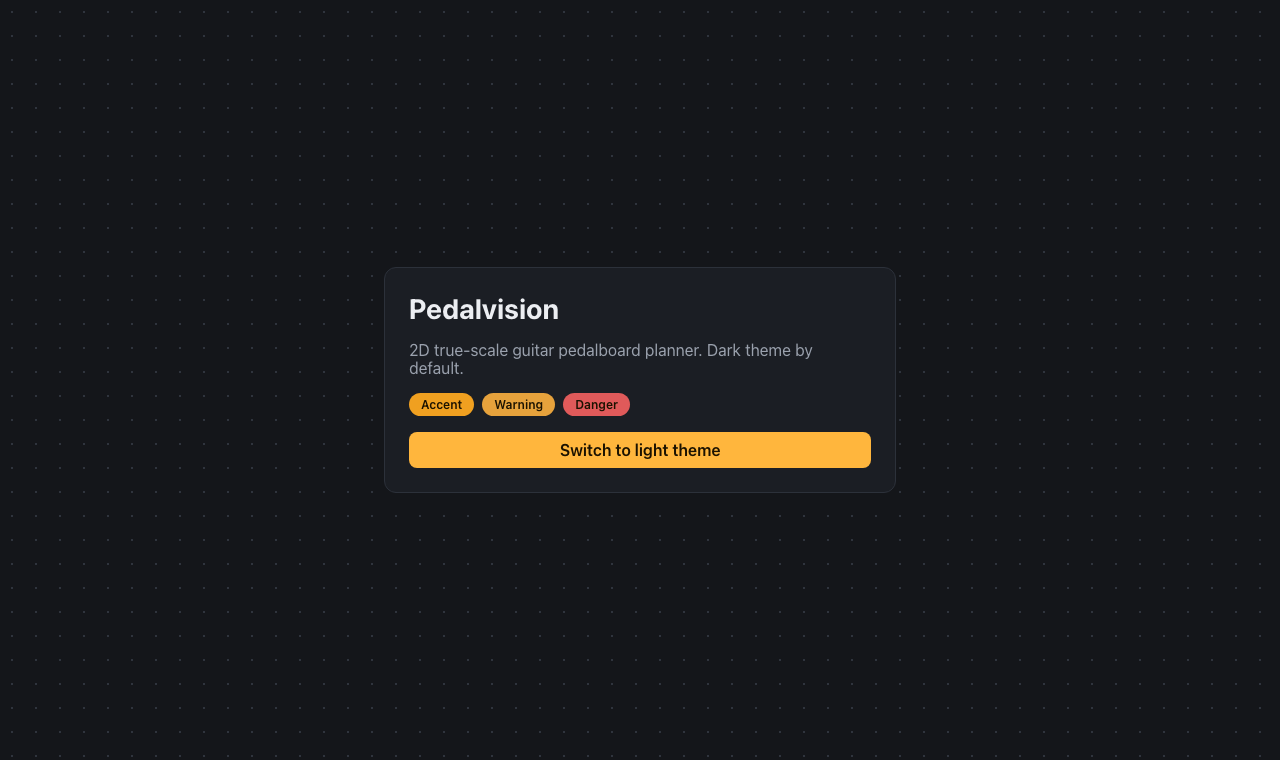
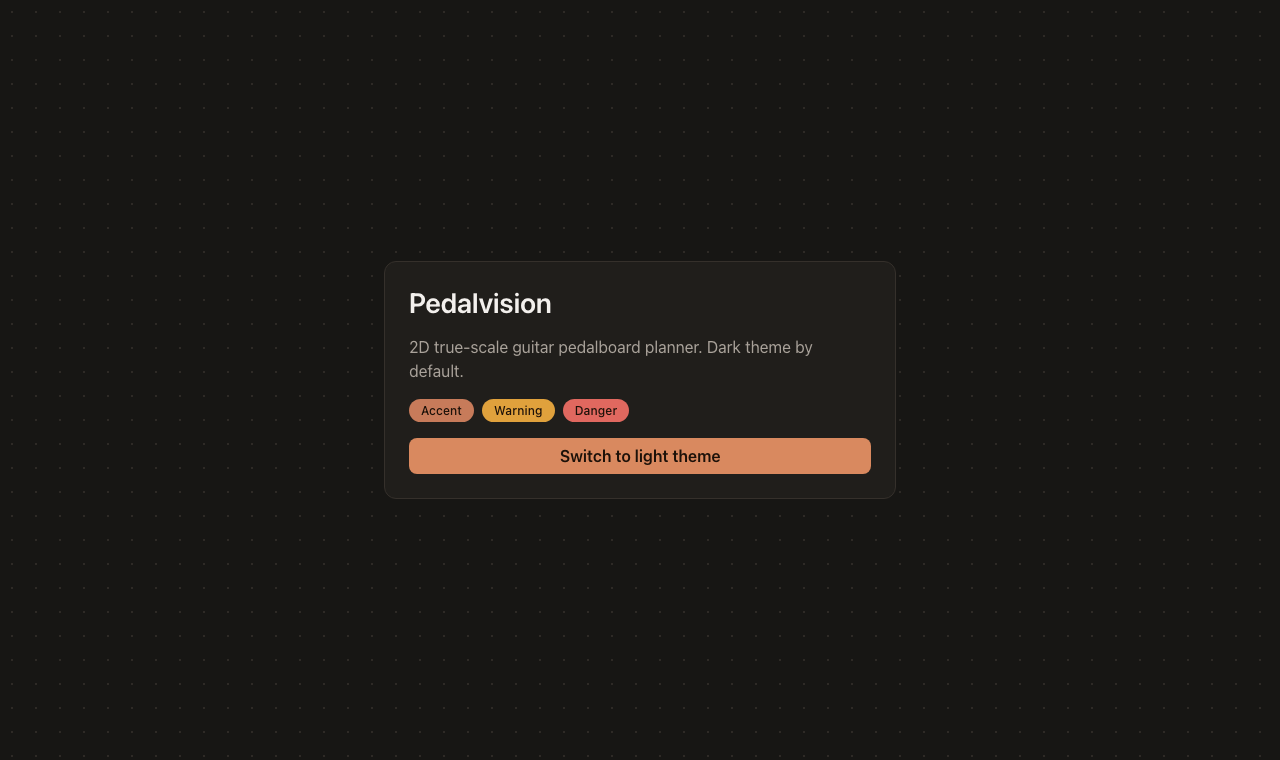
feat: P0-03 Studio Clay redesign — warm graphite + clay accent (owner-approved direction)

Changed region(s): [[0.3125, 0.4539, 0.6875, 0.6355], [0.3125, 0.3934, 0.4375, 0.4237]]

diff --git a/src/styles/tokens.css b/src/styles/tokens.css
@@ -1,30 +1,33 @@
 /*
  * Pedalvision design tokens — the single source of truth for visual values.
- * Dark is the default (:root); light is a variables-only override.
- * Konva cannot read CSS variables — keep src/styles/theme.ts in sync (tested).
+ * Direction: "Studio Clay" (owner-approved 2026-10-12, see ADR-005).
+ * Warm graphite canvas + one desaturated clay accent; depth by luminance
+ * ladder + hairline borders, never shadows/glow. Dark is the default (:root);
+ * light is a variables-only override. Konva cannot read CSS variables — keep
+ * src/styles/theme.ts in sync (tested).
  */
 
 :root {
 	color-scheme: dark;
 
 	/* Canvas */
-	--color-canvas-bg: #14161a;
-	--color-grid-dot: #2f343d;
+	--color-canvas-bg: #171614;
+	--color-grid-dot: #2e2a26;
 
 	/* Surfaces & ink */
-	--color-surface: #1b1e24;
-	--color-surface-raised: #23272f;
-	--color-border: #2c313a;
-	--color-ink: #eceef2;
-	--color-ink-muted: #9aa1ad;
+	--color-surface: #201e1b;
+	--color-surface-raised: #292521;
+	--color-border: #35302b;
+	--color-ink: #f3f0ed;
+	--color-ink-muted: #a9a29a;
 
 	/* Accent & status */
-	--color-accent: #f0a020;
-	--color-accent-strong: #ffb63d;
-	--color-on-accent: #1b1200;
-	--color-warning: #e6a23c;
-	--color-danger: #e05a5a;
-	--color-cable: #c8ccd4;
+	--color-accent: #c77b5a;
+	--color-accent-strong: #d9895f;
+	--color-on-accent: #1c1109;
+	--color-warning: #e0a13c;
+	--color-danger: #e0685f;
+	--color-cable: #d8d2cb;
 
 	/* Spacing scale (4px base) */
 	--space-1: 4px;
@@ -34,7 +37,7 @@
 	--space-5: 24px;
 	--space-6: 32px;
 
-	/* Radii */
+	/* Radii (never mix sm and lg in one component) */
 	--radius-sm: 4px;
 	--radius-md: 8px;
 	--radius-lg: 12px;
@@ -48,8 +51,14 @@
 	--font-size-md: 1rem;
 	--font-size-lg: 1.25rem;
 	--font-size-xl: 1.75rem;
+	--font-weight-normal: 400;
+	--font-weight-medium: 500;
+	--font-weight-semibold: 600;
+	--tracking-tight: -0.01em;
+	--tracking-normal: 0;
+	--tracking-wide: 0.01em;
 
-	/* Dot grid */
+	/* Dot grid — subtle infrastructure, not noise */
 	--grid-dot-size: 24px;
 	--grid-dot-radius: 1px;
 }
@@ -58,21 +67,21 @@
 	color-scheme: light;
 
 	/* Canvas */
-	--color-canvas-bg: #f5f6f8;
-	--color-grid-dot: #c8ccd4;
+	--color-canvas-bg: #f4f1ed;
+	--color-grid-dot: #d9d3ca;
 
 	/* Surfaces & ink */
-	--color-surface: #ffffff;
-	--color-surface-raised: #f0f1f4;
-	--color-border: #d7dae0;
-	--color-ink: #1b1e24;
-	--color-ink-muted: #5b6270;
+	--color-surface: #fbfaf8;
+	--color-surface-raised: #f0ece6;
+	--color-border: #e2dcd4;
+	--color-ink: #1f1c19;
+	--color-ink-muted: #6b645c;
 
 	/* Accent & status */
-	--color-accent: #b26b00;
-	--color-accent-strong: #8a5300;
+	--color-accent: #9e5230;
+	--color-accent-strong: #834327;
 	--color-on-accent: #ffffff;
-	--color-warning: #b7791f;
-	--color-danger: #c53030;
-	--color-cable: #4a4f59;
+	--color-warning: #9a6a12;
+	--color-danger: #c0453c;
+	--color-cable: #4a443d;
 }

diff --git a/src/styles/theme.ts b/src/styles/theme.ts
@@ -5,6 +5,8 @@
  * token values are mirrored here as plain JS. `CANVAS_THEME_VARS` maps each
  * key to the token name in src/styles/tokens.css; theme.test.ts asserts the
  * literals stay in sync with both the :root (dark) and light scopes.
+ *
+ * Values track the "Studio Clay" direction (ADR-005, owner-approved).
  */
 
 export const CANVAS_THEME_VARS = {
@@ -21,18 +23,18 @@ export type CanvasTheme = Record<CanvasThemeKey, string>;
 
 /** Default theme (matches :root in tokens.css). */
 export const canvasTheme: CanvasTheme = {
-	gridDot: "#2f343d",
-	canvasBackground: "#14161a",
-	selection: "#f0a020",
-	selectionStrong: "#ffb63d",
-	cable: "#c8ccd4",
+	gridDot: "#2e2a26",
+	canvasBackground: "#171614",
+	selection: "#c77b5a",
+	selectionStrong: "#d9895f",
+	cable: "#d8d2cb",
 };
 
 /** Light theme (matches [data-theme="light"] in tokens.css). */
 export const lightCanvasTheme: CanvasTheme = {
-	gridDot: "#c8ccd4",
-	canvasBackground: "#f5f6f8",
-	selection: "#b26b00",
-	selectionStrong: "#8a5300",
-	cable: "#4a4f59",
+	gridDot: "#d9d3ca",
+	canvasBackground: "#f4f1ed",
+	selection: "#9e5230",
+	selectionStrong: "#834327",
+	cable: "#4a443d",
 };

diff --git a/src/index.css b/src/index.css
@@ -16,6 +16,7 @@ body {
 	margin: 0;
 	font-family: var(--font-sans);
 	font-size: var(--font-size-md);
+	font-weight: var(--font-weight-normal);
 	color: var(--color-ink);
 	background-color: var(--color-canvas-bg);
 	font-synthesis: none;
@@ -63,12 +64,15 @@ p {
 
 .panel__title {
 	font-size: var(--font-size-xl);
+	font-weight: var(--font-weight-semibold);
+	letter-spacing: var(--tracking-tight);
 	line-height: 1.2;
 	color: var(--color-ink);
 }
 
 .panel__text {
 	color: var(--color-ink-muted);
+	line-height: 1.5;
 }
 
 .badges {
@@ -81,7 +85,8 @@ p {
 	padding: var(--space-1) var(--space-3);
 	border-radius: var(--radius-pill);
 	font-size: var(--font-size-xs);
-	font-weight: 600;
+	font-weight: var(--font-weight-medium);
+	letter-spacing: var(--tracking-wide);
 	color: var(--color-on-accent);
 }
 
@@ -100,7 +105,7 @@ p {
 .button {
 	padding: var(--space-2) var(--space-4);
 	font: inherit;
-	font-weight: 600;
+	font-weight: var(--font-weight-semibold);
 	color: var(--color-on-accent);
 	background-color: var(--color-accent-strong);
 	border: 1px solid transparent;

diff --git a/docs/progress.md b/docs/progress.md
@@ -2,12 +2,13 @@
 
 **Current phase:** P0 — Foundation
 **Next task:** P0-04 → `docs/tasks/P0-04-asset-cdn-skeleton.md` (**UNBLOCKED**)
-**Last updated:** 2026-10-12 (P0-03 done)
+**Last updated:** 2026-10-12 (P0-03 done — Studio Clay)
 
 > See `docs/phase-guide.md` for what each phase does and which ones need owner action (and why).
 
 ## Done
-- [x] P0-03 — Design tokens: all visual values in `src/styles/tokens.css` (dark default, light = variables-only `[data-theme="light"]` override); `src/styles/theme.ts` mirrors canvas tokens (grid dot, canvas bg, selection/accent, cable) with a Vitest test asserting both theme scopes stay in sync with tokens.css; global reset + token-driven dot-grid class; temporary in-App toggle proving variables-only switch. Also added `node` to tsconfig types (test must read tokens.css to compare values), adjusted a review-rule grep scope (no hex in components). Acceptance green: lint/build/test/e2e pass, computed-style check + screenshots confirm the flip recolors all chrome with zero component edits, and `grep '#…' src/components src/App.tsx` is clean.
+- [x] P0-03 — Design tokens **final ("Studio Clay")**. Owner-approved direction (2026-10-12): warm graphite canvas + one desaturated clay accent (only accent hue), luminance-ladder surfaces + hairline borders (no shadows/glow), cream light theme, system fonts (zero new deps). Values in `src/styles/tokens.css` (dark default + `[data-theme="light"]` override), mirrored in `src/styles/theme.ts` (sync-tested), typography discipline via `--font-weight-*`/`--tracking-*` tokens. All visual values ≤AA contrast. Acceptance re-verified green (lint/test/build/e2e + computed-style flip check + grep). Supersedes v1 palette below.
+- [x] P0-03 (v1) — first pass (dark slate + amber). **Superseded 2026-10-12 by owner decision** on direction; mechanism kept.
 - [x] P0-02 — CI/CD pipeline: GitHub Actions runs lint → typecheck → unit tests → build → Playwright smoke (chromium, `vite preview`, port 4174) on every PR/push to main; deploys to Cloudflare Pages (PR = preview URL, main = production). Pipeline is self-bootstrapping (creates the `pedalvision` Pages project on first deploy) and posts the preview URL as a PR comment.
 - [x] Plan v1: requirements, design, roadmap, ADRs, task system created
 - [x] Plan passed 6 external review rounds — all valid findings folded in (R1–R6); docs now internally consistent, plan **frozen for implementation**
@@ -24,7 +25,8 @@
 - **Sequencing note (S7):** P0-02 is done (2026-09-30). **Owner-blocked rule (owner instruction, 2026-09-29):** when the next task is owner-blocked, agents STOP and wait for the owner — they do NOT skip ahead to unblocked tasks. Remaining owner actions: P0-05 dataset, P2-06 outreach, launch gate (see `docs/phase-guide.md`). P0-03/P0-04 are NOT owner-blocked.
 
 ## Session log
-- 2026-10-12 — **P0-03 done.** Design tokens (tokens.css dark+light scopes, theme.ts canvas map + sync test, reset, dot-grid class, App demo chrome + temporary toggle). Two implementation wrinkles solved: Vitest's `?raw` CSS import returns empty in this stack → test reads tokens.css via `node:fs`; and Biome has no hex-in-components rule, so hardcoded color prohibition stays a PR review rule (noted in PR #2 description). Added `node` to `tsconfig.app.json` types for the fs read. Computed-style check + Playwright screenshots (dark + light) confirm the `data-theme` flip recolors all chrome with zero component edits; grep for hex in `src/components` + `src/App.tsx` is clean. Acceptance green: `pnpm lint`/`pnpm test`(3)/`pnpm build`/`pnpm e2e` all pass. Next: P0-04 (asset serving).
+- 2026-10-12 — **P0-03 redesign done ("Studio Clay").** Owner rejected the v1 dark-slate+amber palette as "like other pedal planners" and instructed: design work is now gated behind a **designer agent** (staff-level UX/UI expert). Plan updated: AGENTS.md **Design gate** (mandatory designer review for all design tasks; if the owner does design manually, always propose the designer first; new directions need owner approval), new `.opencode/agent/designer.md` + `/design-review` command, **ADR-005** (design governance), `design.md` + P0-03 task notes, and a **minimal-dependencies** owner principle in AGENTS.md hard constraints (prefer zero new deps, evergreen choices only, justify per task/ADR). Designer agent researched 2026 trends (Linear/Geist/Raycast systems + trend roundups) and proposed **"Studio Clay"** (warm graphite + desaturated clay accent, luminance ladder, cream light). **Owner approved as-is with system fonts.** Implemented: tokens.css values swapped, theme.ts mirrored (sync test green), type discipline tokens, demo chrome untouched (colors only → proves variables-only theming). Re-verified: `pnpm lint`/`test`(3)/`build`/`e2e` pass, computed-style flip check (canvas `#171614`↔`#f4f1ed`, ink `#f3f0ed`↔`#1f1c19`, panel `#201e1b`↔`#fbfaf8`, identical classes), grep for hex in components clean, screenshots regenerated. Note: Vitest `?raw` CSS import returns empty in this stack → theme sync test reads tokens.css via `node:fs` (tsconfig `types` includes `node`).
+- 2026-10-12 — **P0-03 v1 submitted.** Design tokens first pass (mechanism + dark-slate+amber palette). Owner rejected palette; direction went through the designer agent; v1 superseded by Studio Clay. PR #2 updated and handed back to the owner for review.
 - 2026-09-22 — Planning session: created AGENTS.md + full docs/ (requirements, design, roadmap, 4 ADRs, task system, P0–P1 tasks)
 - 2026-09-22 — Review rounds 1–6 applied; plan frozen. **Next: P0-01 (repo scaffold).** Stop doc-only reviews; switch to post-phase code reviews.
 - 2026-09-29 — P0-01 attempt wiped docs via `--overwrite`; docs restored; git init'd; P0-01 revised to forbid `--overwrite`.
@@ -35,3 +37,4 @@
 
 ## Deps note (N7 pre-authorization)
 - `idb` (P3 persistence) and `fflate` (P3 share codec) are pre-authorized — install without a new ADR when those tasks land.
+- **Minimal-dependencies principle (owner instruction, 2026-10-12):** the project stays easy to update/maintain — zero new deps preferred; any unavoidable dep must be stable/evergreen and justified in its task file or an ADR (see AGENTS.md → Hard constraints). Re-evaluate for removal when a dep stops paying for itself.
